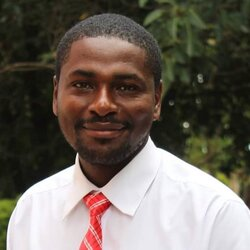
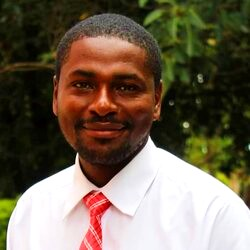
update

diff --git a/index.html b/index.html
@@ -17,7 +17,7 @@
   <div id="content">
     <header>
       <div>
-        <img id="photo" src="images/placeholder.png" alt="Kigame Image" width="200" height="200">
+        <img id="photo" src="images/placeholder.png" alt="Kigame Image" width="250" height="250">
       </div>
       <h2> Geoffrey Kigame Kisia</h2>
     </header>
